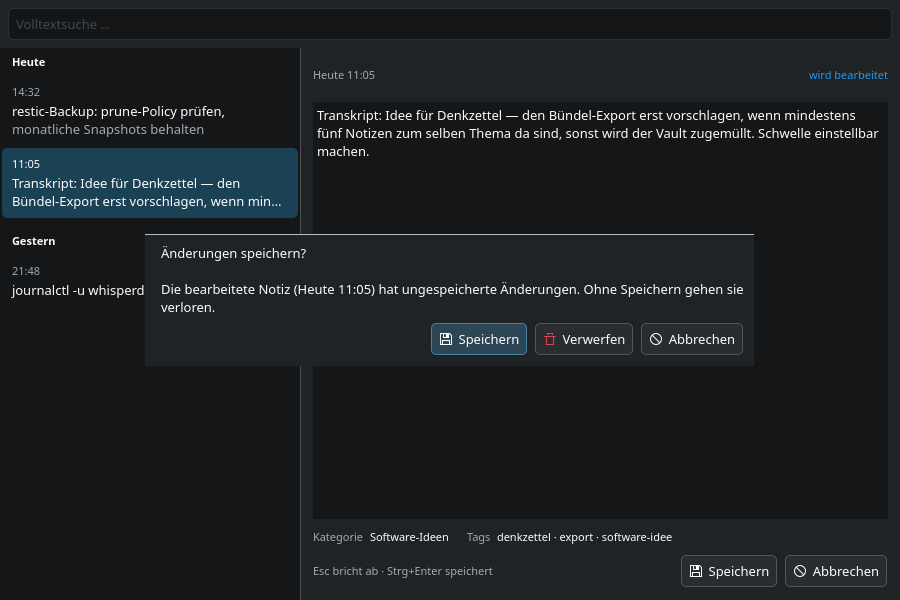
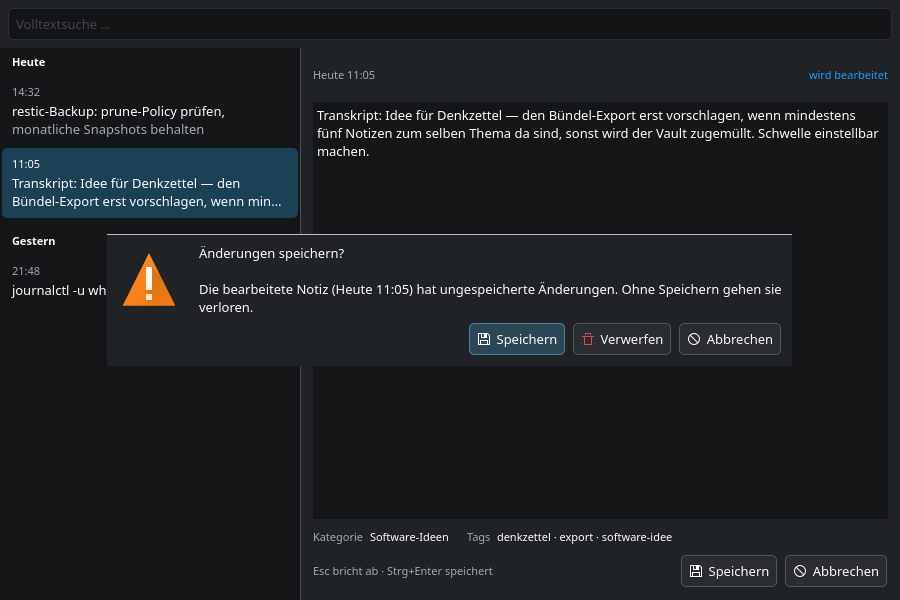
Warnsymbol im Wächterdialog (#66, PO-Entscheidung)
Der Ersatzdialog der Plattform hatte ein Warnsymbol, der KMessageDialog nicht.
Der PO hat entschieden, dass es zurückkommt: Die Zeichnung hatte es aus
Versäumnis nicht, ein Dialog über drohenden Datenverlust ist der Kernfall des
Symbols, und die Story, die fehlende Symbole heilt, darf nicht das größte
entfernen. Zeichnung 2a Zustand C ist auf main nachgezogen (8a8c652).

Von den zwei belegten Wegen der direkte: setIcon() am bestehenden
KMessageDialog. KMessageBox::warningTwoActionsCancel() baut den Dialog und ruft
exec() selbst auf — genau dazwischen aber muss F3 zugreifen, weil die Vorgabe
dem Fokus folgt und beim Sichtbarwerden an Abbrechen geht. Über KMessageBox
wäre die Vorgabe nur mit einem Zeitgeber auf activeModalWidget() zu halten, also
mit einer Wache auf den eigenen Dialog. So kostet es eine Zeile und lässt
Modalität, Rückgabewert-Zuordnung und F3 unberührt.

Rot vorher:

    FAIL!  : showsTheWarningSymbolInTheGuardDialog() '!symbol.isEmpty()' returned
             FALSE. (Der Wächterdialog zeigt kein Warnsymbol — kein sichtbares
             Etikett trägt ein Bild)
    Totals: 104 passed, 1 failed

Danach 105 passed, 0 failed — mit und ohne Plattformthema, ctest 7/7. Gemessen
wird das Bildetikett, nicht ein Name: Das Symbol sitzt in einem QLabel, und ein
Pixmap hat keinen Namen. Mit setIcon() wird aus dem verborgenen leeren Etikett
ein sichtbares mit 64x64.

Dabei aufgefallen und mit dokumentiert, weil es jeden Bildbeleg dieses Projekts
[…]

Changed region(s): [[0.1244, 0.42, 0.8711, 0.54], [0.4667, 0.54, 0.8711, 0.6]]

diff --git a/tests/librarytest.cpp b/tests/librarytest.cpp
@@ -179,6 +179,7 @@ private Q_SLOTS:
     void refusesToSaveAnEmptyText();
     void leavesTheEditorWithoutAskingWhenNothingWasChanged();
     void namesTheThreeAnswersOfTheGuardDialog();
+    void showsTheWarningSymbolInTheGuardDialog();
     void namesTheSymbolsOfTheDetailButtons();
     void namesTheSymbolOfTheUndoAction();
     void keepsTheSelectionOnTheEditedNoteWhileTheDialogAsks();
@@ -2674,6 +2675,50 @@ void LibraryTest::namesTheThreeAnswersOfTheGuardDialog()
     // PO decision F3). Saving meets the likely intention of someone who has
     // just typed — and it is the answer that loses nothing either way.
     QCOMPARE(defaultAnswer, QStringLiteral("Speichern"));
+}
+
+void LibraryTest::showsTheWarningSymbolInTheGuardDialog()
+{
+    storedNote(QStringLiteral("wird geändert"));
+
+    LibraryWindow window(m_store.get());
+    window.showLibrary();
+    QVERIFY(QTest::qWaitForWindowExposed(&window));
+    listOf(window)->setCurrentIndex(noteRow(listOf(window), 0));
+
+    actionNamed(window, QStringLiteral("Bearbeiten"))->trigger();
+    editorOf(window)->setPlainText(QStringLiteral("geändert"));
+
+    // Wireframe 2a, state C: a dialog about losing work carries the warning
+    // symbol. It is the one symbol the platform's substitute dialog did have,
+    // and the story that heals the missing symbols must not take the largest
+    // one away (PO decision of 02.08.2026 on the handover finding).
+    //
+    // The measurement is the picture label, not a name: the symbol sits in a
+    // QLabel, and a pixmap has no name to ask for. Empty or hidden means the
+    // dialog shows none — which is exactly what KMessageDialog does when no
+    // icon is handed to it, its documentation notwithstanding.
+    QSize symbol;
+    QTimer::singleShot(0, qApp, [&symbol] {
+        QDialog *dialog = waitForGuardDialog();
+        QVERIFY(dialog);
+
+        const QList<QLabel *> labels = dialog->findChildren<QLabel *>();
+        for (QLabel *label : labels) {
+            if (label->isVisible() && !label->pixmap().isNull()) {
+                symbol = label->pixmap().size();
+            }
+        }
+
+        QAbstractButton *cancel = dialogButton(dialog, QStringLiteral("Abbrechen"));
+        QVERIFY(cancel);
+        cancel->click();
+    });
+
+    QTest::keyClick(editorOf(window), Qt::Key_Escape);
+
+    QVERIFY2(!symbol.isEmpty(),
+             "Der Wächterdialog zeigt kein Warnsymbol — kein sichtbares Etikett trägt ein Bild");
 }
 
 void LibraryTest::namesTheSymbolsOfTheDetailButtons()

diff --git a/tests/editshots.cpp b/tests/editshots.cpp
@@ -9,6 +9,7 @@
 #include <QDialogButtonBox>
 #include <QDir>
 #include <QIcon>
+#include <QLabel>
 #include <QLineEdit>
 #include <QListView>
 #include <QPainter>
@@ -340,6 +341,22 @@ int main(int argc, char **argv)
                       qUtf8Printable(answer->icon().name()),
                       defaultAnswer(dialog) == answer ? " (Vorgabe)" : "");
             }
+
+            // The warning symbol sits in a picture label and has no name to
+            // ask for, so its size is what can be said about it. It stands in
+            // the log as well as in the picture on purpose: a picture does not
+            // carry its build state in its face — this bench is
+            // EXCLUDE_FROM_ALL, and a plain `cmake --build build` leaves it as
+            // it was (measured 02.08.2026, when a fresh picture showed an old
+            // dialog).
+            QSize warning;
+            const QList<QLabel *> labels = dialog->findChildren<QLabel *>();
+            for (const QLabel *label : labels) {
+                if (label->isVisible() && !label->pixmap().isNull()) {
+                    warning = label->pixmap().size();
+                }
+            }
+            qInfo("Wächterdialog: Warnsymbol %dx%d", warning.width(), warning.height());
 
             QPixmap behind = window.grab();
             const QPixmap front = dialog->grab();

diff --git a/src/ui/librarywindow.cpp b/src/ui/librarywindow.cpp
@@ -924,6 +924,14 @@ LibraryWindow::UnsavedAnswer LibraryWindow::askAboutUnsavedChanges()
                           this);
     dialog.setCaption(i18nc("@title:window", "Ungespeicherte Änderungen"));
 
+    // The warning symbol, set out loud although the dialog type is a warning
+    // one. KMessageDialog::setIcon() promises a generic symbol by type for a
+    // null QIcon; measured on 02.08.2026 it hands out none, and the dialog
+    // then carries no picture label at all. A dialog about losing work is the
+    // very case the symbol exists for — and it is the one symbol the
+    // platform's substitute dialog did have (wireframe 2a, state C).
+    dialog.setIcon(QIcon::fromTheme(QStringLiteral("dialog-warning")));
+
     // Symbols from the system theme; three similarly long German words side by
     // side are told apart fastest by their picture, and „Verwerfen“ gets the
     // marking KDE gives a destructive action (UI review of 02.08.2026,

diff --git a/docs/scrum/reviews/sprint-05-s-symbole/bericht.md b/docs/scrum/reviews/sprint-05-s-symbole/bericht.md
@@ -124,11 +124,11 @@ bleibt im Editor. Neun Fälle, drei Auslöser × drei Antworten.
 
 | Lauf | Ergebnis | Beleg |
 |---|---|---|
-| `librarytest` **mit** `QT_QPA_PLATFORMTHEME=kde` | **104 passed, 0 failed** | `gruen-mit-plattformthema.txt` |
-| `librarytest` **ohne** Plattformthema | **104 passed, 0 failed** | `gruen-ohne-plattformthema.txt` |
+| `librarytest` **mit** `QT_QPA_PLATFORMTHEME=kde` | **105 passed, 0 failed** | `gruen-mit-plattformthema.txt` |
+| `librarytest` **ohne** Plattformthema | **105 passed, 0 failed** | `gruen-ohne-plattformthema.txt` |
 | `ctest` vollständig | **7/7 passed** | `gruen-ctest.txt` |
 
-Vorher 102 Tests, jetzt 104 (zwei neue für #67). `lint-clazy` und `lint-tidy`
+Vorher 102 Tests, jetzt 105 (zwei neue für #67, einer für das Warnsymbol). `lint-clazy` und `lint-tidy`
 melden auf `src/ui/librarywindow.cpp` **nichts Neues**; die drei von mir
 eingeführten clazy-Befunde und vier tidy-Befunde sind behoben. Was stehen
 bleibt, steht unter 7.
@@ -209,15 +209,8 @@ Kein Befund: Auf dem privaten Bus gibt es weder Kurzbefehl-Dienst noch Tray.
    Abnahmebild ist nach #66 AK 3 ausdrücklich Kundensache. **Das ist die eine
    Grenze der Prüfbarkeit dieses Strangs**; sie ist nicht offen gelassen,
    sondern liegt bei PO und Kunde — Sprint-Abschluss Takt 1, Punkt 1.
-2. **Der Wächterdialog hat kein Warnsymbol mehr.** Der Ersatzdialog der
-   Plattform zeichnete ein großes oranges Ausrufezeichen
-   (`sprint-04-kundenabnahme/waechterdialog-ohne-symbole.png`), der
-   `KMessageDialog` zeichnet keines: Gemessen setzt er **nur ein ausdrücklich
-   übergebenes** Symbol, obwohl sein Stil ein Warnsymbol hätte (32×32
-   vorhanden). **Zeichnung 2a Zustand C zeichnet ebenfalls keines** — der Bau
-   folgt also der Zeichnung, weicht aber vom abgenommenen Sprint-4-Bild ab. Ich
-   habe **nichts hinzugefügt**: Ein Symbol wäre eine Änderung gegen die
-   Zeichnung und über den Auftrag hinaus. **Entscheidung für UX/PO.**
+2. ~~**Der Wächterdialog hat kein Warnsymbol mehr.**~~ **Entschieden und
+   erledigt** — siehe Nachtrag, Abschnitt 9.
 3. **SPEC 15** nennt bei KWidgetsAddons nur „KMessageWidget"; jetzt kommt
    `KMessageDialog` aus demselben Framework dazu. Abhängigkeit unverändert, die
    Klammer unvollständig. Außerhalb meiner Dateimenge — **nicht geändert.**
@@ -255,3 +248,72 @@ Arbeitsbaum trug also die Fassung davor. Gegen die **neue** Fassung geprüft:
 | `SPEC.md` | 9 (Bauart und ihre Bedingungen), 16 (Testumgebungs-Bedingung) |
 
 `src/ui/librarywindow.h` blieb unberührt.
+
+## 9. Nachtrag 02.08.2026 — das Warnsymbol wird gesetzt (PO-Entscheidung)
+
+Der PO hat meinen Punkt 1 entschieden: **Das Warnsymbol kommt zurück.** Die
+Zeichnung hatte es aus Versäumnis nicht, ein Datenverlust-Dialog ist der
+Kernfall des Symbols, und die Story, die fehlende Symbole heilt, darf nicht das
+größte entfernen. Zeichnung 2a Zustand C ist auf `main` nachgezogen (`8a8c652`).
+
+### 9.1 Wegwahl — `KMessageDialog` behalten, nicht `KMessageBox`
+
+Der PO stellte zwei belegte Wege frei. **Entschieden für `setIcon()` am
+bestehenden `KMessageDialog`**, aus einem Grund, der nicht Geschmack ist:
+
+`KMessageBox::warningTwoActionsCancel()` **baut den Dialog und ruft `exec()`
+selbst auf**. Es gibt keinen Griff auf die Knöpfe zwischen Anzeigen und
+Ereignisschleife — genau dort aber muss F3 zugreifen, denn die Vorgabe folgt
+dem Fokus und wird beim Sichtbarwerden an „Abbrechen" gegeben (Abschnitt 2.3).
+Über `KMessageBox` wäre F3 nur mit einem Zeitgeber auf `activeModalWidget()` zu
+halten — eine Wache auf den eigenen Dialog. Der direkte Weg kostet **eine
+Zeile** und lässt Modalität, Rückgabewert-Zuordnung und F3 unangetastet.
+
+### 9.2 Rot-Nachweis
+
+```
+FAIL!  : showsTheWarningSymbolInTheGuardDialog() '!symbol.isEmpty()' returned FALSE.
+         (Der Wächterdialog zeigt kein Warnsymbol — kein sichtbares Etikett trägt ein Bild)
+Totals: 104 passed, 1 failed
+```
+
+Beleg: `rot-04-warnsymbol.txt`. Danach: **105 passed, 0 failed**, mit und ohne
+Plattformthema; `ctest` 7/7.
+
+Gemessen wird das **Bildetikett**, nicht ein Name: Das Symbol sitzt in einem
+`QLabel`, und ein Pixmap hat keinen Namen, den man erfragen könnte. Mit
+`setIcon()` wird aus dem verborgenen, leeren Etikett ein sichtbares mit
+64×64 — die Zahl, die auch die UX gemessen hat.
+
+### 9.3 Der Beinahe-Fehler, der hier hingehört
+
+Nach der Heilung war der Test grün — **und das Bild zeigte weiter kein
+Symbol.** Beides zugleich kann nicht stimmen, und die Auflösung ist eine, die
+jeden Bildbeleg dieses Projekts betrifft:
+
+**`editshots` ist `EXCLUDE_FROM_ALL`. Ein `cmake --build build` baut es nicht.**
+Der Bildläufer lief als 22 Minuten altes Programm gegen die alte Bibliothek und
+schrieb ein Bild des Standes von vorher — mit frischem Zeitstempel und ohne jede
+Fehlermeldung.
+
+```
+2026-08-02 17:31:01  src/ui/librarywindow.cpp
+2026-08-02 17:31:10  build/bin/librarytest      ← neu gebaut
+2026-08-02 17:08:58  build/bin/editshots        ← 22 Minuten alt
+```
+
+Erst `cmake --build build --target editshots` und ein neuer Lauf zeigten das
+Symbol. **Ein Bild trägt seinen Programmstand nicht im Gesicht** — es sieht
+richtig aus und ist es nicht. Betrifft `editshots`, `libraryshots` und
+`searchshots` gleichermaßen; wer Bilder als Beleg abgibt, baut den Läufer
+vorher ausdrücklich. Alle fünf Bilder der Übergabe stammen aus **einem** Lauf
+des Standes von 17:33.
+
+### 9.4 Was sich geändert hat
+
+| | |
+|---|---|
+| `src/ui/librarywindow.cpp` | `dialog.setIcon(QIcon::fromTheme("dialog-warning"))` |
+| `tests/librarytest.cpp` | neuer Test `showsTheWarningSymbolInTheGuardDialog` |
+| `SPEC.md` | die Zeile „trägt kein Warnsymbol" ist ins Gegenteil berichtigt |
+| `bilder/*.png` | alle fünf neu aus dem aktuellen Programmstand |

diff --git a/SPEC.md b/SPEC.md
@@ -450,9 +450,12 @@ v1 aber nicht gebaut.
       **sichtbaren** Dialog gemessen wird.
     - Wird der Dialog von Hand angezeigt, ist er **nicht mehr modal** durch
       ein späteres `exec()`; die Modalität ist dann selbst zu setzen.
-    - Der Dialog trägt **kein Warnsymbol** neben dem Text — `KMessageDialog`
-      setzt nur ein ausdrücklich übergebenes. Das deckt sich mit Zeichnung
-      2a, Zustand C; der Ersatzdialog der Plattform hatte eines.
+    - Das **Warnsymbol** (`dialog-warning`) wird **ausdrücklich gesetzt**.
+      `KMessageDialog::setIcon()` sagt zwar zu, bei leerem Symbol eines nach
+      Dialogtyp zu wählen — gemessen kommt keines, und der Dialog trägt dann
+      gar kein Bildetikett. Ein Dialog über drohenden Datenverlust ist der
+      Kernfall des Warnsymbols (PO-Entscheidung 02.08.2026; Zeichnung 2a,
+      Zustand C nachgezogen).
 - Steckt die Notiz in einem **offenen Vorschlag**, verwirft Bearbeiten oder
   Löschen diesen Vorschlag (seine Vorschau wäre veraltet); der nächste
   Analyse-Lauf erzeugt ihn auf aktuellem Stand neu.
